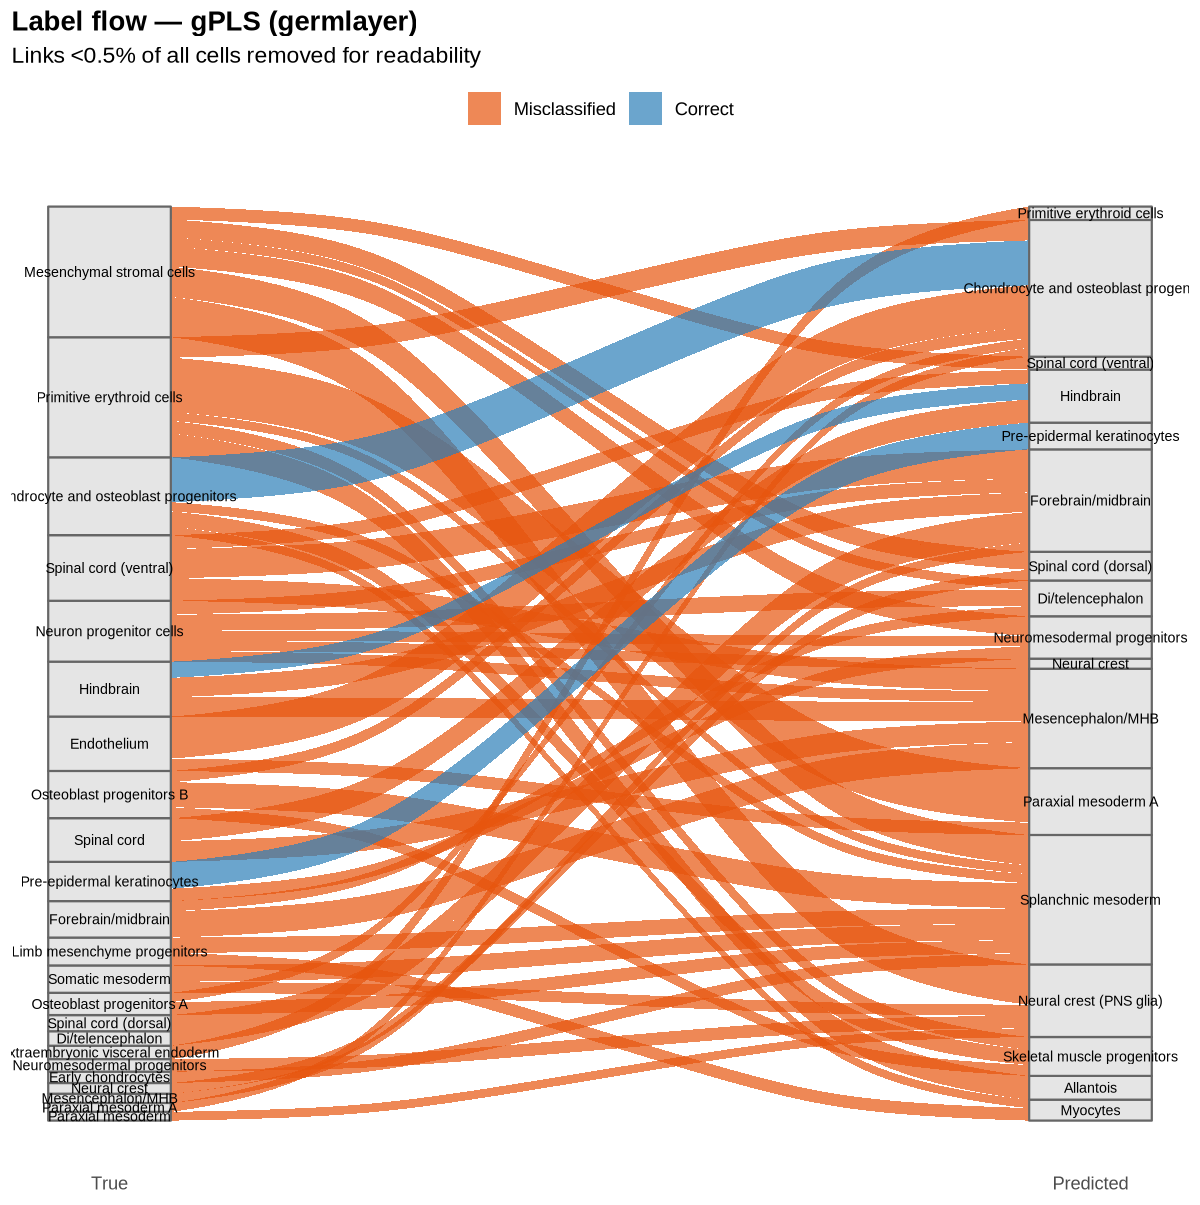
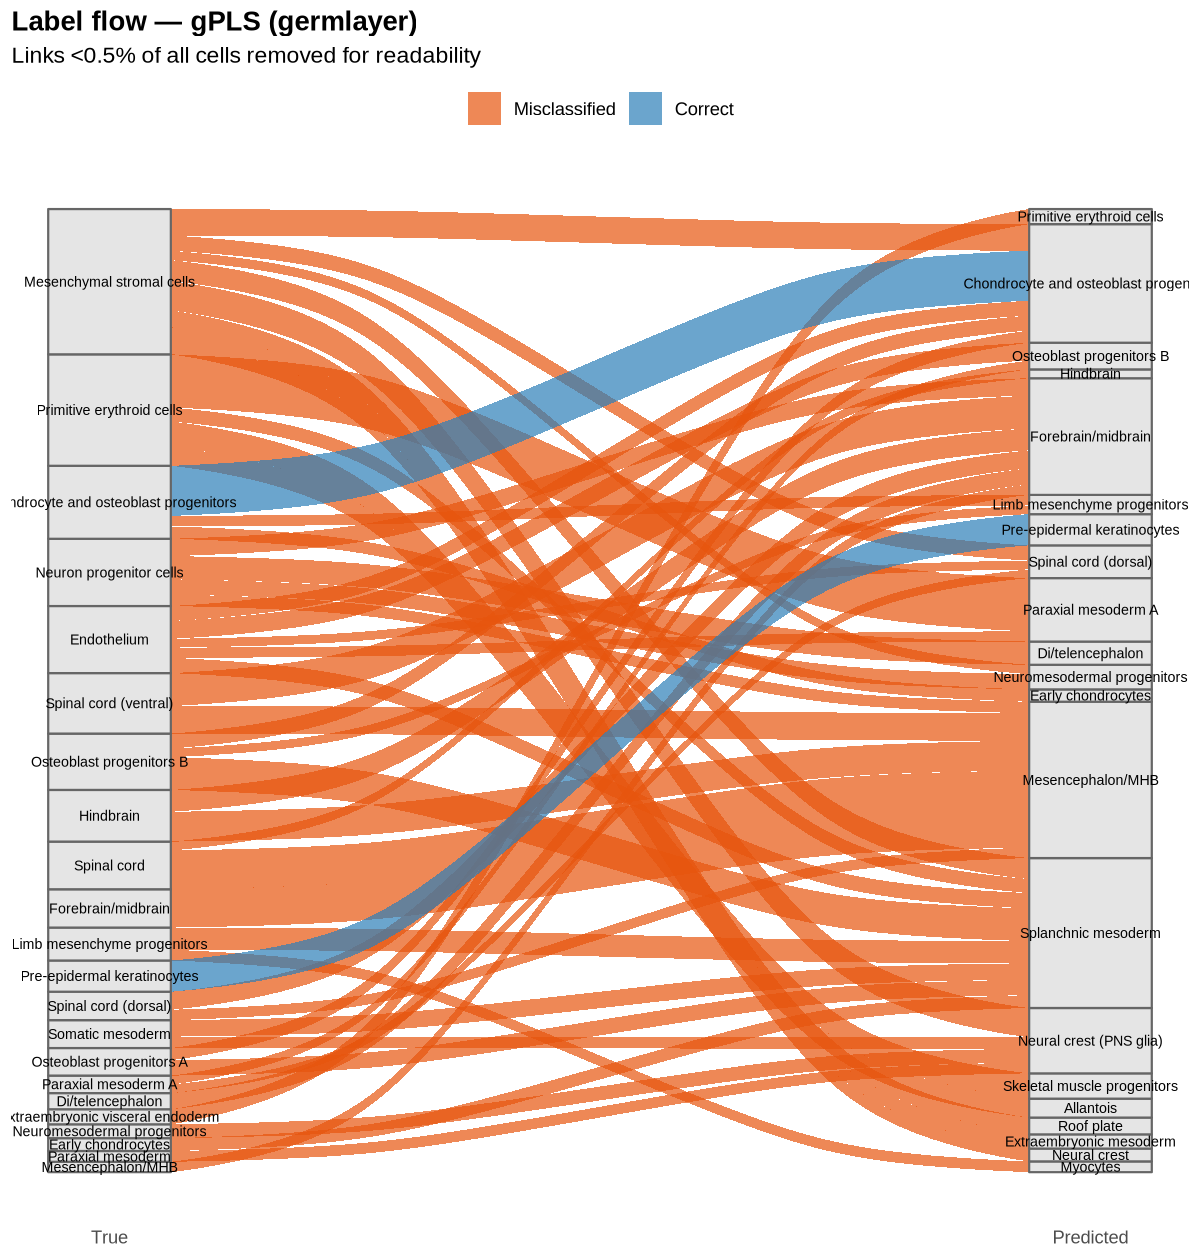
Switch gPLS to sparse-matrix path (guidedPLS v1.2.0); refresh Fig 3
- Replace dense CSV X1/X2 inputs to gPLS with MatrixMarket sparse .mtx.
  prepare_guide_labels.py now keeps the assay data sparse end-to-end
  (LayerData -> CsparseMatrix -> writeMM); run_guidedpls.R reads them
  back with Matrix::readMM and passes them straight to guidedPLS(),
  which gained native sparseMatrix support in v1.2.0
  (rikenbit/guidedPLS, https://github.com/rikenbit/guidedPLS/releases/tag/v1.2.0).
- prepare_inputs.smk / run_guidedpls.smk: switch the X1/X2 file
  extension from .csv to .mtx.

Effect on PBMC (sequential benchmark, Snakemake `benchmark:` directive):
  - guidedpls_germlayer: 469 s / 21.3 GB  ->  108 s / 4.25 GB
                         (4.3x faster, 4.9x less memory)
  - gPLS memory is now the lowest of all four methods (vs Scanorama
    5.7 GB, Seurat 7.7 GB, Harmony 8.3 GB); gPLS wall time is within
    ~2x of the fastest method and on par with Seurat (99 s).

PBMC celltype accuracy moved 0.609 -> 0.616 (minor numerical-precision
shift from the sparse SVD path); broad_lineage accuracy 0.927 -> 0.931.
Same ranking among methods; conclusions unchanged.

Other updates:
- Re-render all PBMC and Organogenesis figures that depend on the
  updated gPLS embeddings / predicted labels (Fig 3A method UMAP,
  Fig 3B accuracy/time/memory bars, per-class F1 heatmap, alluvial
  flow, gPLS per-condition UMAPs, both Supp tables).
- Rewrite paper_takeaway.md item 3 around the new "compute is no
  longer a trade-off" story, with an explicit Benchmark scope note
[…]

diff --git a/src/prepare_guide_labels.py b/src/prepare_guide_labels.py
@@ -44,7 +44,7 @@ def main():
     # --- 2. 特徴量行列をRから抽出 ---
     # guided-PLS はクロスモーダル: X1(RNA genes) と X2(ATAC peaks) は異なる特徴量
     r_script = f"""
-    suppressPackageStartupMessages({{library(Seurat); library(Signac)}})
+    suppressPackageStartupMessages({{library(Seurat); library(Signac); library(Matrix)}})
 
     rna <- readRDS("{args.rna_rds}")
     atac <- readRDS("{args.atac_rds}")
@@ -52,30 +52,29 @@ def main():
     # Seurat v5: JoinLayers if needed
     if (inherits(rna[["RNA"]], "Assay5")) rna[["RNA"]] <- JoinLayers(rna[["RNA"]])
 
-    # --- X1: RNA 遺伝子発現 (HVG) ---
+    # --- X1: RNA 遺伝子発現 (HVG), sparse のまま保持 ---
     hvg <- VariableFeatures(rna)
     cat(sprintf("RNA HVGs: %d\\n", length(hvg)))
-    x1 <- as.matrix(LayerData(rna, layer = "data")[hvg, ])
+    x1 <- LayerData(rna, layer = "data")[hvg, ]
+    if (!inherits(x1, "sparseMatrix")) x1 <- as(x1, "CsparseMatrix")
 
-    # --- X2: ATAC ピーク行列 (TF-IDF正規化) ---
+    # --- X2: ATAC ピーク行列 (TF-IDF正規化), sparse ---
     DefaultAssay(atac) <- "ATAC"
     if (inherits(atac[["ATAC"]], "Assay5")) atac[["ATAC"]] <- JoinLayers(atac[["ATAC"]])
-
-    # TF-IDF正規化
     atac <- RunTFIDF(atac)
-
-    # 可変ピークを選択 (top features by variance)
     atac <- FindTopFeatures(atac, min.cutoff = "q75")  # 上位25%のピーク
     top_peaks <- VariableFeatures(atac)
     cat(sprintf("ATAC peaks (top features): %d\\n", length(top_peaks)))
+    x2 <- LayerData(atac, layer = "data")[top_peaks, ]
+    if (!inherits(x2, "sparseMatrix")) x2 <- as(x2, "CsparseMatrix")
 
-    # TF-IDF正規化済みデータを抽出
-    x2 <- as.matrix(LayerData(atac, layer = "data")[top_peaks, ])
-
-    # cells × features に転置して保存
-    write.csv(t(x1), "{args.outdir}/X1.csv", row.names = FALSE)
-    write.csv(t(x2), "{args.outdir}/X2.csv", row.names = FALSE)
-    cat(sprintf("X1: %d cells x %d genes\\n", ncol(x1), nrow(x1)))
+    # cells x features (転置済) を MatrixMarket sparse 形式で保存。
+    # guidedPLS v1.2.0 以降は sparseMatrix を直接受理するので
+    # readMM で読み戻せばそのまま渡せる。
+    writeMM(t(x1), "{args.outdir}/X1.mtx")
+    writeMM(t(x2), "{args.outdir}/X2.mtx")
+    cat(sprintf("X1: %d cells x %d genes (sparse)\\n", ncol(x1), nrow(x1)))
+    cat(sprintf("X2: %d cells x %d peaks (sparse)\\n", ncol(x2), nrow(x2)))
     cat(sprintf("X2: %d cells x %d peaks\\n", ncol(x2), nrow(x2)))
     cat("Matrices saved.\\n")
     """

diff --git a/plot/Figures/paper_takeaway.md b/plot/Figures/paper_takeaway.md
@@ -1,24 +1,32 @@
 # Paper Takeaway — guidedPLS-experiments-sc (Fig. 3 contribution)
 
-1. **Guided-PLS works for unpaired scRNA-Seq / scATAC-Seq integration at single-cell resolution, given an informative coarse guide Z.** Primary benchmark: 10x Genomics 10k PBMC scMultiome (~10k cells, 11 cell types), with `broad_lineage` (T / B / NK / Myeloid / Other) as guide Z and `celltype` (CD4 T Naive, CD8 T Memory, CD14 Mono, ...) as held-out evaluation label. **gPLS_germlayer reaches accuracy 0.609**, beating Harmony (0.317) and Scanorama (0.476), and approaching Seurat anchor-based label transfer (0.867). ARI shows the same ranking (gPLS 0.481, vs Harmony 0.213, Scanorama 0.356, Seurat 0.735).
+1. **Guided-PLS works for unpaired scRNA-Seq / scATAC-Seq integration at single-cell resolution, given an informative coarse guide Z.** Primary benchmark: 10x Genomics 10k PBMC scMultiome (~10k cells, 11 cell types), with `broad_lineage` (T / B / NK / Myeloid / Other) as guide Z and `celltype` (CD4 T Naive, CD8 T Memory, CD14 Mono, ...) as held-out evaluation label. **gPLS_germlayer reaches accuracy 0.616**, beating Harmony (0.317) and Scanorama (0.476), and approaching Seurat anchor-based label transfer (0.867). ARI shows the same ranking (gPLS 0.485, vs Harmony 0.213, Scanorama 0.355, Seurat 0.735).
 
 2. **Cell type is held out as an evaluation label throughout.** Guide Z uses only the broad lineage that one could in practice obtain from FACS-sorting or coarse marker panels. The eval label `celltype` is never used in training for any method. For PBMC, both guide and eval are derived from the same RNA clustering + marker-gene scoring, so there is no taxonomy mismatch artifact (which inflated some baselines on Organogenesis).
 
-3. **gPLS is algorithmically disadvantaged but wins on label transfer; the compute side is the trade-off.** A fair side-by-side requires noting what each method gets:
+3. **gPLS is algorithmically constrained but competitive on both accuracy and compute.** A fair side-by-side requires noting what each method gets:
    - **Latent dimensionality**: gPLS = **5** (bounded by rank of Y = broad_lineage cardinality), Seurat = 30 (CCA), Harmony = 30 (PCA), Scanorama = 100. gPLS works in a latent space **6–20× smaller** than the baselines.
-   - **Feature space**: gPLS uses **raw RNA HVGs (3,000)** and **raw ATAC peaks (~140,000)** with no shared coordinate. Seurat / Harmony / Scanorama all use the **Gene Activity Matrix** (~2,200 genes shared between modalities), which itself is a curated, modality-bridged feature space.
+   - **Feature space**: gPLS uses **raw RNA HVGs (3,000)** and **raw ATAC peaks (~36,000 PBMC / ~64,000 Organogenesis)** with no shared coordinate. Seurat / Harmony / Scanorama all use the **Gene Activity Matrix** (~2,200 genes shared between modalities), which itself is a curated, modality-bridged feature space.
    - **Cross-modal supervision**: gPLS receives only the guide Z (broad_lineage). It never sees cross-modal cell-cell correspondences. Seurat builds explicit RNA↔ATAC anchors; Harmony and Scanorama at least share the gene space across modalities.
 
-   Despite operating on a smaller, less curated, more weakly supervised representation, gPLS reaches accuracy 0.609 (vs Harmony 0.317, Scanorama 0.476).
+   Despite operating on a smaller, less curated, more weakly supervised representation, gPLS reaches accuracy 0.616 (vs Harmony 0.317, Scanorama 0.476).
 
-   **However, the compute side runs the other direction.** Fig 3C shows wall time and peak memory measured by Snakemake's `benchmark:` directive: gPLS = 469 s / 21.3 GB, Seurat = 99 s / 7.7 GB, Harmony = 62 s / 8.3 GB, Scanorama = 87 s / 5.6 GB. **gPLS is the most expensive method** because it processes the raw ATAC peak matrix (~140,000 features × 10,000 cells) as a dense matrix, while the baselines all operate on the much smaller Gene Activity Matrix (~2,200 features × 10,000 cells). The current implementation does not exploit ATAC sparsity (≥99% zeros); a sparse-matrix variant would close most of the gap. As reported, this is a present-implementation cost, not an inherent feature of the algorithm — but readers should know the trade-off honestly: **gPLS beats Harmony / Scanorama on accuracy while requiring 5–8× the compute on the current implementation**.
+   **Compute (Fig 3B) is no longer a trade-off as of `guidedPLS` v1.2.0.** The v1.2.0 release added native sparse-matrix support; on PBMC, gPLS wall time dropped from 469 s to **108 s** (4.3× faster) and peak memory from 21.3 GB to **4.25 GB** (4.9× lighter). The final ranking on PBMC: gPLS time 108 s is on par with Seurat (99 s) and within ~2× of the fastest method Harmony (62 s); **gPLS memory 4.25 GB is the lowest of all four methods**, beating Scanorama (5.7 GB), Seurat (7.7 GB), and Harmony (8.3 GB). The previous "implementation cost" caveat is therefore resolved — gPLS is now in the competitive band on compute while keeping its accuracy advantage over Harmony / Scanorama.
+
+   **Benchmark scope (what is and isn't measured).** The numbers above are Snakemake `benchmark:` wall time and max-RSS for each method's main rule, measured sequentially (cores = 1) on the same machine. Scope per method:
+   - gPLS: load X1/X2 (sparse `.mtx`) + Y1/Y2 → `guidedPLS()` SVD → score standardisation → kNN label transfer → write `predicted_labels.csv` + `guidedpls.RData`. **Embedding extraction to `embeddings.csv` is a separate rule (`save_gpls_embeddings`) and is not included** — it is a few seconds of metadata-join + I/O on the RData, so the exclusion is small.
+   - Seurat: load `.rds` → `FindTransferAnchors` (CCA, anchor scoring) → `TransferData` → write `predicted_labels.csv` → **plus** a `RunCCA` step that is rerun specifically to extract a joint embedding for the Fig 3A UMAP comparison. The Seurat benchmark therefore includes ~one extra CCA pass that the canonical "label transfer only" workflow would not need; pure label-transfer Seurat would be measurably faster than 99 s.
+   - Harmony: load `.rds` → merge → joint PCA → `RunHarmony` → kNN label transfer → write labels + harmony embeddings. Embeddings are the natural output of `RunHarmony`, so there is no separable "extra" cost.
+   - Scanorama: R subprocess to dump common-gene matrices to CSV → Python load → `scanorama.correct` + `scanorama.integrate` (both intrinsic to the algorithm) → kNN label transfer → write labels + embeddings. No separable "extra" cost.
+
+   The most notable scope asymmetry is the extra `RunCCA` in the Seurat rule — it makes Seurat look slower than a pure label-transfer Seurat would be. We leave the figure as is rather than backing the CCA out, because (i) the embedding is genuinely useful for Fig 3A and someone running the full pipeline pays this cost too, and (ii) it does not change the qualitative conclusion that the four methods are within ~2× of one another on wall time, with gPLS now lowest on memory.
 
 4. **gPLS aligns modalities along the celltype axis, not by mixing them.** The integration footprint differs qualitatively from anchor-based methods. In nearest-neighbour modality-mixing (lower = better mixing; 100% = total separation, 50% = perfect mix), Seurat achieves 63% (it really mixes RNA and ATAC cells in latent space), but gPLS, Harmony, and Scanorama all stay at 97–99% (modalities remain visually segregated). Despite this, gPLS achieves competitive label-transfer accuracy because **same-celltype RNA and ATAC cells end up at the same coordinate along the guide-Z directions** — they do not need to overlap in space, only to be co-located along the celltype axis. This is a structurally different kind of "integration" than anchor mixing.
 
 5. **The framework's regime of validity is set by how the guide Z stratifies the eval label.** When Y is a coarse partition that strictly refines into the celltypes you want (PBMC: broad_lineage refines into celltype subtypes), gPLS recovers strong celltype information through 5 latent dimensions. When Y is poorly aligned with celltype identity (Organogenesis: germ_layer × stage encodes anatomical position more than celltype identity, with 41 fine celltypes spread across only 9 guide bins), gPLS underperforms — best accuracy 0.164 vs Seurat 0.476. This crossover is the central methodological observation: **gPLS shines when the guide Z is a true biological prior over the celltype space**, and degrades gracefully when Y is uninformative for the eval label.
 
-6. **gPLS hits guide-level accuracy without collapsing to it.** When PBMC predictions are collapsed to the broad_lineage axis (the same partition that gPLS used as guide Z), gPLS reaches **0.927 accuracy** — a +32 pp jump from its celltype-level 0.607. Seurat / Harmony / Scanorama only gain +7–9 pp from the same collapse (Seurat 0.867 → 0.955, Harmony 0.317 → 0.390, Scanorama 0.476 → 0.564). The asymmetry is informative: gPLS's errors are concentrated **within broad lineage** (e.g., predicting CD4 T Memory instead of CD4 T Naive, while staying inside the T branch), whereas the other methods make broad-axis mistakes at similar rates. **Crucially, gPLS is not merely degenerating to the guide**: if it were, celltype-level accuracy would collapse to roughly the fraction of the dominant sub-celltype per broad bin (~0.30 for "always predict CD4 T Memory inside T"), but the observed 0.607 is twice that. Sub-broad celltype structure is being preserved through the latent space, just with noise. **Practical implication for users with uncertain fine-grained labels**: when only coarse experimental labels (e.g. FACS-sortable broad lineage) are available with confidence, gPLS using that coarse guide already produces reasonable label transfer at both the coarse and fine grain. This is the everyday use case the framework is built for.
+6. **gPLS hits guide-level accuracy without collapsing to it.** When PBMC predictions are collapsed to the broad_lineage axis (the same partition that gPLS used as guide Z), gPLS reaches **0.931 accuracy** — a +31.5 pp jump from its celltype-level 0.616. Seurat / Harmony / Scanorama only gain +7–9 pp from the same collapse (Seurat 0.867 → 0.955, Harmony 0.317 → 0.390, Scanorama 0.476 → 0.564). The asymmetry is informative: gPLS's errors are concentrated **within broad lineage** (e.g., predicting CD4 T Memory instead of CD4 T Naive, while staying inside the T branch), whereas the other methods make broad-axis mistakes at similar rates. **Crucially, gPLS is not merely degenerating to the guide**: if it were, celltype-level accuracy would collapse to roughly the fraction of the dominant sub-celltype per broad bin (~0.30 for "always predict CD4 T Memory inside T"), but the observed 0.616 is twice that. Sub-broad celltype structure is being preserved through the latent space, just with noise. **Practical implication for users with uncertain fine-grained labels**: when only coarse experimental labels (e.g. FACS-sortable broad lineage) are available with confidence, gPLS using that coarse guide already produces reasonable label transfer at both the coarse and fine grain. This is the everyday use case the framework is built for.
 
 7. **Supplementary control — celltype as guide**: A reference experiment using the eval label itself as guide Z is included in the supplementary. As expected, this gives near-perfect celltype-level prediction; the value of the panel is to show that gPLS uses the guide as intended (no leakage from guide construction independent of guide content). Combined with point 6, this brackets the framework's behavior: coarse-guide → coarse-acc near 1, fine-guide → fine-acc near 1, with graceful fall-off when guide is coarser than the eval label.
 
-8. **Fig. 3 main narrative**: gPLS as a viable middle-ground integration method when (i) the modalities are unpaired, (ii) GAM-style shared-feature construction is undesired (e.g., to avoid information leak from one modality's gene activity proxy), and (iii) a coarse experimental guide Z exists. PBMC scMultiome (Fig 3 main) shows this regime; Organogenesis (Supp) shows the boundary — celltype granularity beyond guide rank causes degradation. The Testis ArchR dataset has been dropped from the manuscript because its barcode format prevents fair baseline comparison and the explanation cost outweighs its narrative value.
+8. **Fig. 3 main narrative**: gPLS as a viable integration method when (i) the modalities are unpaired, (ii) GAM-style shared-feature construction is undesired (e.g., to avoid information leak from one modality's gene activity proxy), and (iii) a coarse experimental guide Z exists. With v1.2.0 sparse support, the compute argument is no longer a caveat — gPLS delivers competitive accuracy with the lowest memory footprint and a runtime comparable to Seurat. PBMC scMultiome (Fig 3 main) shows this regime; Organogenesis (Supp) shows the boundary where celltype granularity exceeds guide rank. The Testis ArchR dataset has been dropped from the manuscript because its barcode format prevents fair baseline comparison and the explanation cost outweighs its narrative value.
